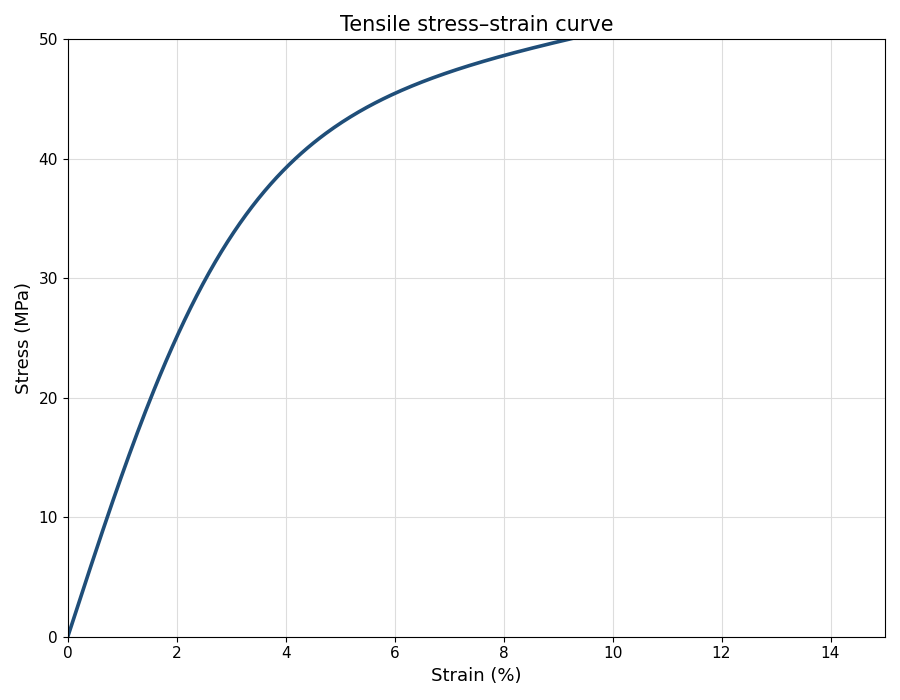
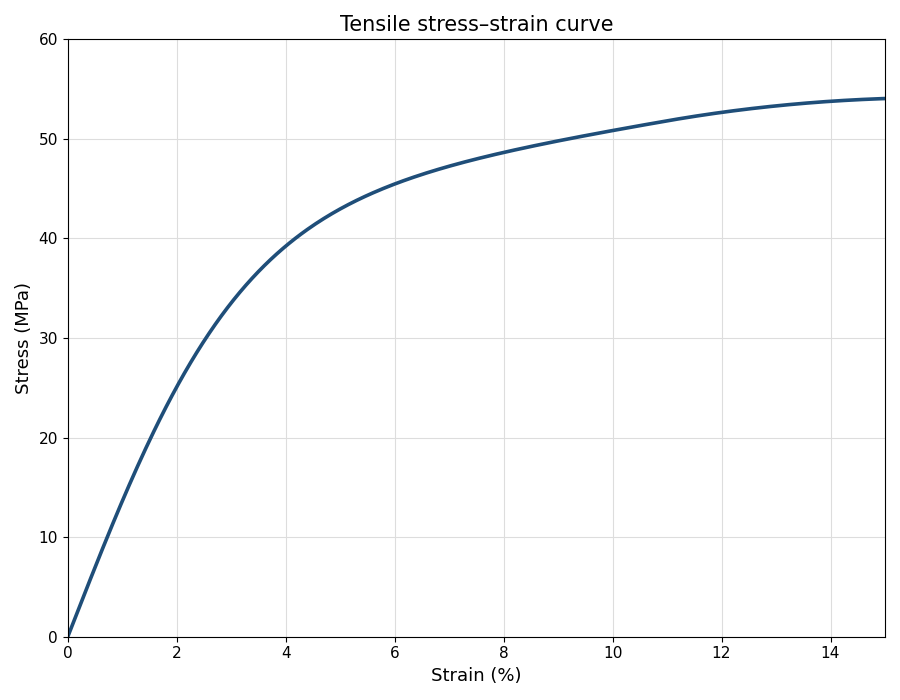
The stress-strain example draws the whole curve its truth claims
The generator plotted the curve up to 54.05 MPa under a y-limit of 50, so it
left the frame at 9.2% strain and 24 of its 61 truth points were never on the
figure. The Trace Challenge charged a perfect player for points nobody could
see. The y-limit is now 60; the plot box keeps its pixels, so no test that
clicks on this image moved.

The docstring promised "a gentle post-peak decline" that the formula never
produces inside 0-15%. It now says what the curve does.

The rule is enforced for every bundled example, not this one: a truth value
outside its own axes is a value the figure does not draw. Red before the fix
on exactly this file; the other 28 pass.

diff --git a/engine/__tests__/sampleTruthInsideItsAxes.test.ts b/engine/__tests__/sampleTruthInsideItsAxes.test.ts
@@ -1,0 +1,76 @@
+import { describe, expect, it } from 'vitest';
+import { readdirSync, readFileSync } from 'node:fs';
+
+/**
+ * ⚑ A BUNDLED EXAMPLE'S TRUTH MAY ONLY CLAIM WHAT ITS FIGURE DRAWS.
+ *
+ * Every generator clips its data artists to the axes (matplotlib's default
+ * `clip_on=True`), so a truth value outside the axes' own min/max is a value the
+ * figure never shows. It cannot be traced, so it cannot be scored: the Trace
+ * Challenge charges a perfect player for points nobody can see.
+ *
+ * Found 2026-09-23: `xy-stress-strain` rose to 54.05 MPa under a y-limit of 50,
+ * so the curve left the frame at x = 9.2 and 24 of its 61 truth points were off
+ * the figure.
+ *
+ * Checked against the committed truth files, not a fixture - the rule is about
+ * what ships. Coordinates are read per axis: `x` against the x axis, and every
+ * value-axis field of the point shapes in samples/generators/README.md against
+ * the y axis. Types whose points carry no such field (pie, polar, ternary,
+ * spider, heatmap cells) are outside this rule rather than passing it.
+ */
+
+type Axis = { min: number; max: number };
+type Figure = {
+  axes?: Record<string, Partial<Axis> | undefined>;
+  series?: { name: string; points: Record<string, unknown>[] }[];
+};
+
+const ON_Y = ['y', 'yUpper', 'yLower', 'value', 'min', 'q1', 'median', 'q3', 'max', 'open', 'high', 'low', 'close'];
+
+function axisFor(field: string): 'x' | 'y' | null {
+  if (field === 'x') return 'x';
+  return ON_Y.includes(field) ? 'y' : null;
+}
+
+/** Every numeric coordinate the truth claims that lies outside its own axis. */
+function outsideItsAxes(fig: Figure): string[] {
+  const out: string[] = [];
+  for (const s of fig.series ?? []) {
+    for (const p of s.points) {
+      for (const [field, v] of Object.entries(p)) {
+        const a = axisFor(field);
+        const axis = a ? fig.axes?.[a] : undefined;
+        if (typeof v !== 'number' || axis?.min === undefined || axis.max === undefined) continue;
+        const lo = Math.min(axis.min, axis.max);
+        const hi = Math.max(axis.min, axis.max);
+        if (v < lo || v > hi) out.push(`${s.name}.${field}=${v} outside [${lo}, ${hi}]`);
+      }
+    }
+  }
+  return out;
+}
+
+const files = readdirSync('samples').filter((f) => f.endsWith('.truth.json')).sort();
+
+describe('a bundled example’s truth claims only what its figure draws', () => {
+  it('finds the truth files it is meant to check', () => {
+    // Guards the instrument: an empty glob would pass every case below.
+    expect(files.length).toBeGreaterThan(20);
+  });
+
+  it.each(files)('%s has no value outside its own axes', (file) => {
+    const truth = JSON.parse(readFileSync(`samples/${file}`, 'utf8')) as Figure & { figures?: Figure[] };
+    const figures = truth.figures ?? [truth];
+    expect(figures.flatMap(outsideItsAxes)).toEqual([]);
+  });
+
+  it('would catch a value past the top of the axis', () => {
+    // The rule shown to fire, independent of any committed file.
+    const clipped: Figure = {
+      axes: { x: { min: 0, max: 15 }, y: { min: 0, max: 50 } },
+      series: [{ name: 's', points: [{ x: 14, y: 54.05 }] }],
+    };
+    expect(outsideItsAxes(clipped)).toEqual(['s.y=54.05 outside [0, 50]']);
+  });
+});

diff --git a/samples/generators/gen_samples.py b/samples/generators/gen_samples.py
@@ -544,7 +544,11 @@ def gen_categorical():
 
 def gen_stress_strain():
     """A tensile stress–strain curve (a flagship materials-testing extraction case):
-    elastic rise → yield → strain hardening → a gentle post-peak decline. Navy so
+    elastic rise → rounded yield → strain hardening, reaching 54.05 MPa at 15%
+    strain. ⚑ The y-limit is 60 so the WHOLE curve is drawn: at 50 (until
+    2026-09-23) it left the frame at x = 9.2 and 24 truth points were never on
+    the figure. The quadratic term only slows the hardening inside 0-15%; it
+    never turns the curve down, so there is no post-peak decline. Navy so
     the colour-trace e2e (target #1f4e79) still matches; drawn thick so the
     segment-fill flood has a solid line to follow. Truth = a dense sampling of the
     curve (a continuous curve's ground truth is the curve itself)."""
@@ -558,14 +562,14 @@ def gen_stress_strain():
     fig.patch.set_facecolor("white")
     ax.plot(x, stress, color=NAVY, linewidth=2.6, solid_capstyle="round")
     ax.set_xlim(0, 15)
-    ax.set_ylim(0, 50)
+    ax.set_ylim(0, 60)
     ax.set_xlabel("Strain (%)", fontsize=13)
     ax.set_ylabel("Stress (MPa)", fontsize=13)
     ax.set_title("Tensile stress–strain curve", fontsize=15)
     ax.grid(True, color="#dddddd", linewidth=0.8)
     ax.tick_params(labelsize=11)
     fig.tight_layout()
-    calib = _xy_calibration(fig, ax, 0, 15, 0, 50)
+    calib = _xy_calibration(fig, ax, 0, 15, 0, 60)
     _save(fig, name)
     # Dense truth: 61 evenly-spaced samples along the curve (enough to score a
     # trace against without storing all 400 render points).
@@ -575,7 +579,7 @@ def gen_stress_strain():
         "source": {"imagePath": name + ".png", "note": "Synthetic ground truth - a dense sampling of the plotted curve (continuous: the truth is the curve)."},
         "graphType": "xy",
         "axes": {"x": {"label": "Strain (%)", "min": 0, "max": 15},
-                 "y": {"label": "Stress (MPa)", "min": 0, "max": 50}},
+                 "y": {"label": "Stress (MPa)", "min": 0, "max": 60}},
         "calibration": calib,
         "series": [{"name": "stress", "points": [{"x": round(float(a), 3), "y": round(float(b), 3)} for a, b in zip(xs, ys)]}],
     })
